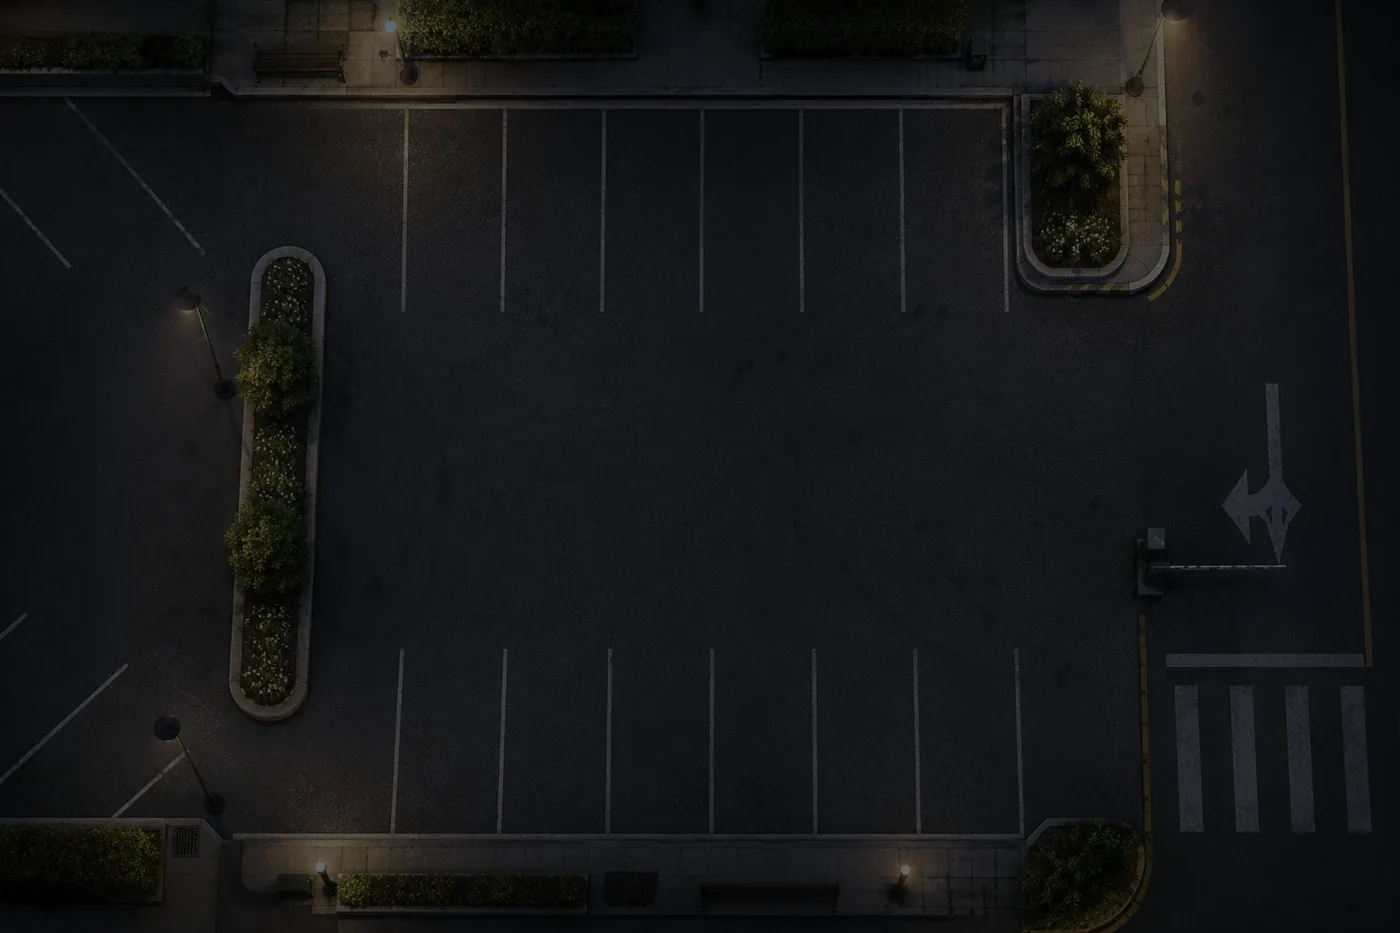
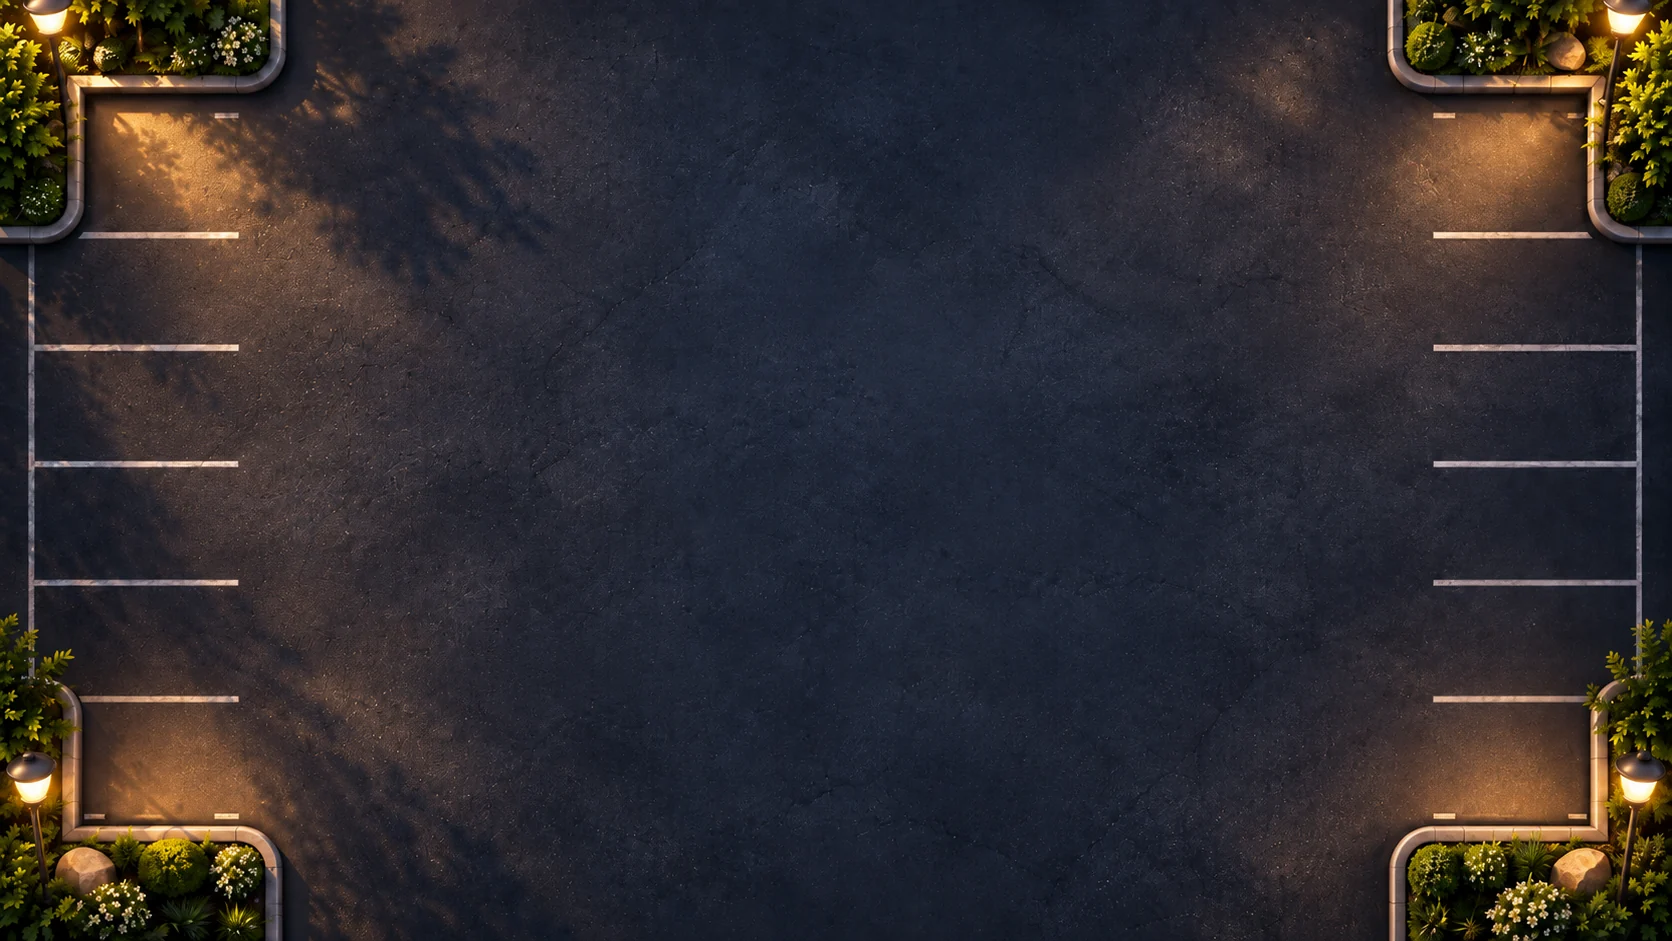
v3.26.1: o cenario do Estacionamento volta a aparecer -- regressao de 27/ago
Ela, vendo a tela publicada: "nao entrou", com a captura mostrando o tabuleiro
sobre o navy do app, sem cenario nenhum.

CAUSA, provada por parser CSS (cssstyle), nao por leitura:
  "#23262e linear-gradient(...), url(...) center / cover"  -> RECUSADA
  "linear-gradient(...), url(...) center / cover #23262e"  -> ACEITA
No atalho background a cor so e aceita na ULTIMA camada. Na primeira, o navegador
descarta a declaracao INTEIRA -- nao vinha a foto, nem o veu, nem sequer o cinza.
Por isso a captura dela nao tinha cinza nenhum.

DESDE QUANDO: em 25/jun (v1.85.23) o desenho usava backgroundImage, que nao
aceita cor e por isso nao tinha como errar. No lote F (v2.94.0, 27/ago, a
migracao ao palco) virou o atalho com a cor na primeira camada. O cenario esta
apagado ha duas semanas e meia e ninguem viu porque ninguem abriu a tela com os
olhos desde a migracao. A v3.26.0 de ontem HERDOU o defeito: mantive a estrutura
errada ao trocar a foto pelo par dia/noite.

Falha minha, separada: ela salvou as artes dela as 23h15 como "fundo dia.png" e
"fundo noite.png" (1672x941). Meu git add -A do commit da spec as levou junto sem
eu olhar, e as 23h34 gerei provisorios por cima. Agora as artes DELA estao em
fundo-dia.webp (348 KB) e fundo-noite.webp (220 KB); os PNGs ficam como fonte.

Veu reduzido (dia 0,12-0,20; noite 0,05-0,10, contra 0,28-0,40): o veu antigo foi
calibrado contra uma foto que nunca apareceu, e sobre a arte dela apagaria o
[…]

diff --git a/lib/parking-layout.test.ts b/lib/parking-layout.test.ts
@@ -5,6 +5,9 @@ import { PARKING_LEVELS } from "./parking-levels";
 import {
   BORDER, CELL_IDEAL, CELL_MIN, CORRIDOR, DAY_START_HOUR, medidasDoTabuleiro,
   NIGHT_START_HOUR, periodoDoDia, tamanhoDaCelula,
+  fundoDoPalco,
+  COR_DE_BASE,
+  FUNDO_POR_PERIODO,
 } from "./parking-layout";
 
 const COMPONENT_PATH = resolve(process.cwd(), "components/exercises/executive/EstacionamentoLogico.tsx");
@@ -82,12 +85,36 @@ describe("layout do Estacionamento Lógico", () => {
     expect(Math.max(...fases.map((level) => level.cars.length))).toBe(10);
   });
 
+  it("o fundo do palco é um atalho CSS VÁLIDO: a cor vai na última camada", () => {
+    // Regressão real, de 27/ago a 13/set: o valor era `#23262e linear-gradient(...), url(...)`, com a
+    // cor na PRIMEIRA camada. No atalho `background` a cor só é aceita na última, e uma declaração
+    // inválida é descartada INTEIRA — não vinha nem a foto, nem o véu, nem o cinza. Ninguém viu
+    // porque ninguém abriu a tela. Este teste é o que faz isso não voltar calado.
+    for (const periodo of ["dia", "noite"] as const) {
+      const valor = fundoDoPalco(periodo);
+      const camadas = valor.split(/,(?![^()]*\))/).map((camada) => camada.trim());
+
+      expect(camadas.length).toBeGreaterThan(1);
+      expect(valor).toContain(FUNDO_POR_PERIODO[periodo]);
+      expect(valor).toContain("center / cover");
+      expect(valor).toContain("no-repeat");
+
+      for (const camada of camadas.slice(0, -1)) {
+        expect(camada, "cor fora da ultima camada em " + periodo).not.toContain(COR_DE_BASE);
+      }
+      expect(camadas[camadas.length - 1]).toContain(COR_DE_BASE);
+    }
+  });
+
   it("preserva os contratos de UI e a lógica fixa", () => {
     const source = readFileSync(COMPONENT_PATH, "utf8");
     const logica = source.slice(source.indexOf("function buildGrid"), source.indexOf("// ── Top-view vehicle"));
     const tutorialConcluido = source.slice(source.indexOf("// ── Tutorial concluído"), source.indexOf("// ── Result screen"));
 
     expect(source).not.toMatch(/transform:\s*["'`][^"'`]*scale\s*\(/);
+    // A montagem do fundo vive no módulo puro, onde é provada; o componente só consome.
+    expect(source).not.toMatch(/#23262e\s+linear-gradient/);
+    expect(source).toContain("fundoDoPalco(periodo)");
     expect(tutorialConcluido).toContain("mx-auto");
     expect(tutorialConcluido).not.toContain("max-w-xs");
     expect(tutorialConcluido).not.toContain("#ECEAE4");

diff --git a/lib/parking-layout.ts b/lib/parking-layout.ts
@@ -50,7 +50,38 @@ export const FUNDO_POR_PERIODO: Record<PeriodoDoDia, string> = {
   noite: "/exercises/Carros/fundo-noite.webp",
 };
 
+/**
+ * Véu escuro sobre o cenário, para o tabuleiro se destacar do fundo.
+ *
+ * Leve de propósito: a arte dela já vem tratada — a de dia é clara e quente, a de noite já é escura
+ * e tem os postes acesos. O véu antigo (0,28→0,40) foi calibrado contra uma FOTO que na prática nunca
+ * apareceu na tela (ver `fundoDoPalco`), e sobre a arte dela apagaria o dourado do fim de tarde.
+ * É uma linha para ajustar quando ela vir com os olhos.
+ */
 export const VEU_POR_PERIODO: Record<PeriodoDoDia, [string, string]> = {
-  dia: ["rgba(8,10,16,0.28)", "rgba(8,10,16,0.40)"],
-  noite: ["rgba(8,10,16,0.10)", "rgba(8,10,16,0.18)"],
+  dia: ["rgba(8,10,16,0.12)", "rgba(8,10,16,0.20)"],
+  noite: ["rgba(8,10,16,0.05)", "rgba(8,10,16,0.10)"],
 };
+
+/** Cor sob o cenário, enquanto a imagem não carrega. */
+export const COR_DE_BASE = "#23262e";
+
+/**
+ * A string do atalho `background` do palco — e a razão de existir uma função para isto.
+ *
+ * ⚠ REGRESSÃO REAL, corrigida em 13/set/2026: de 27/ago (v2.94.0, a migração ao palco) até aqui, o
+ * cenário do Estacionamento **não apareceu na tela**. O valor era
+ * `#23262e linear-gradient(…), url(…) center / cover`, com a **cor na PRIMEIRA camada** — e no atalho
+ * `background` a cor só é aceita na ÚLTIMA. Declaração inválida é descartada INTEIRA pelo navegador,
+ * então não vinha nem a foto, nem o véu, nem sequer o cinza: aparecia o fundo do app por baixo.
+ * Ninguém viu porque ninguém abriu a tela com os olhos desde a migração. Em 25/jun o mesmo desenho
+ * funcionava porque usava `backgroundImage`, que não aceita cor e por isso não tinha como errar.
+ *
+ * A ordem aqui — imagens primeiro, cor por último — é o que torna a declaração válida, e
+ * `parking-layout.test.ts` prova isso pela estrutura, para a regressão não voltar em silêncio.
+ */
+export function fundoDoPalco(periodo: PeriodoDoDia): string {
+  const [inicio, fim] = VEU_POR_PERIODO[periodo];
+  return `linear-gradient(${inicio}, ${fim}), `
+    + `url(${FUNDO_POR_PERIODO[periodo]}) center / cover no-repeat ${COR_DE_BASE}`;
+}

diff --git a/components/exercises/executive/EstacionamentoLogico.tsx b/components/exercises/executive/EstacionamentoLogico.tsx
@@ -8,8 +8,8 @@ import { ExerciseStage } from "@/components/exercises/ExerciseStage";
 import { assignCarImages, ALL_CAR_IMAGES } from "@/lib/parking-cars";
 import { PARKING_LEVELS, PLAY_LEVELS } from "@/lib/parking-levels";
 import {
-  BORDER, CORRIDOR, FUNDO_POR_PERIODO, medidasDoTabuleiro, periodoDoDia,
-  RESPIRO_VERTICAL, tamanhoDaCelula, VEU_POR_PERIODO,
+  BORDER, CORRIDOR, fundoDoPalco, medidasDoTabuleiro, periodoDoDia,
+  RESPIRO_VERTICAL, tamanhoDaCelula,
 } from "@/lib/parking-layout";
 import type { Level } from "@/types/parking";
 import type { ExerciseResult, Theme } from "@/types";
@@ -430,8 +430,7 @@ export function EstacionamentoLogico({ difficulty, theme, onComplete }: Props) {
   }, [gridDaFase, hint, tutorial, currentLevel]);
 
   const { interno: boardInner, total: boardTotal } = medidasDoTabuleiro(gridDaFase, cellPx);
-  const [veuInicio, veuFim] = VEU_POR_PERIODO[periodo];
-  const gameBackground = `#23262e linear-gradient(${veuInicio}, ${veuFim}), url(${FUNDO_POR_PERIODO[periodo]}) center / cover no-repeat`;
+  const gameBackground = fundoDoPalco(periodo);
 
   useEffect(() => { if (!startedRef.current) { startedRef.current = true; begin(); } }, [begin]);
 

diff --git a/PROGRESSO.md b/PROGRESSO.md
@@ -3,6 +3,55 @@
 > Checkpoint de contexto para continuidade entre sessões. Atualizado automaticamente.
 > 👉 Visão geral e handoff para o próximo Claude: **`ESTADO-DO-PROJETO.md`** (leia primeiro).
 
+## 🔴 REGRESSÃO DE 27/AGO ENCONTRADA E CORRIGIDA — o cenário do Estacionamento nunca aparecia (13/set/2026)
+
+**Ela, vendo a tela publicada:** *"não entrou"* — com a captura mostrando o tabuleiro sobre o **navy
+do app**, sem cenário nenhum. Corrigido em **v3.26.1**.
+
+**A causa, provada por parser CSS (`cssstyle`), não por leitura:**
+
+```
+"#23262e linear-gradient(...), url(...) center / cover"   -> declaracao RECUSADA (vazia)
+"linear-gradient(...), url(...) center / cover #23262e"   -> ACEITA
+```
+
+No atalho `background`, a **cor só é aceita na ÚLTIMA camada**. Estando na primeira, o navegador
+**descarta a declaração inteira** — não vinha a foto, nem o véu, nem sequer o cinza `#23262e`, e o que
+aparecia era o fundo do app por baixo. Foi por isso que a captura dela não tinha cinza nenhum.
+
+**Desde quando:** em **25/jun (v1.85.23)** o desenho usava `backgroundImage`, que **não aceita cor** e
+por isso não tinha como errar — funcionava. No **lote F (v2.94.0, 27/ago, a migração ao palco)** virou
+o atalho `background` com a cor na primeira camada. **O cenário está apagado há duas semanas e meia**,
+e ninguém viu porque **ninguém abriu a tela com os olhos** desde a migração — exatamente o risco que o
+bloco *"O que NINGUÉM verificou com os olhos"* de 10/set registrava. A entrega de ontem (v3.26.0)
+**herdou** o defeito: eu mantive a estrutura errada ao trocar a foto pelo par dia/noite.
+
+**⚠ Falha minha, separada:** ela salvou as artes dela às **23h15 e 23h16** como `fundo dia.png` e
+`fundo noite.png` (1672×941, com ESPAÇO no nome). Meu `git add -A` do commit da spec (`429a1dc1`) as
+levou junto **sem eu olhar**, e às 23h34 eu gerei provisórios por cima — o código ficou apontando para
+os **meus** arquivos, não para os dela. Agora as artes dela estão convertidas para
+`fundo-dia.webp` (348 KB) e `fundo-noite.webp` (220 KB); os PNGs originais ficam como fonte.
+
+- [x] **`fundoDoPalco(periodo)`** em `lib/parking-layout.ts`: monta a string com as imagens primeiro e
+      a cor por último. O componente só consome. ✅
+- [x] **Véu reduzido** — dia 0,12→0,20 e noite 0,05→0,10, contra 0,28→0,40 de antes. O véu antigo foi
+      calibrado contra uma foto que **nunca apareceu na tela**, e sobre a arte dela apagaria o dourado
+      do fim de tarde. A arte de noite já vem escura, com os postes acesos. **É uma linha para ajustar
+      quando ela vir.** ✅
+- [x] **Teste que impede a volta silenciosa:** quebra a string em camadas e exige que a cor **não**
+      apareça em nenhuma que não seja a última; mais prova de ausência no componente. **Provado por
+      injeção:** devolvida a cor à primeira camada, o teste quebra. ✅
+- [x] **Provas:** `tsc` exit 0 · **87 arquivos / 1109 testes** exit 0 · lint 0 errors · e as duas
+      strings reais validadas no **parser CSS** de verdade. ✅
+- [ ] **PENDENTE — ela ver.** Depois das 18h a tela abre no cenário de NOITE.
+
+### A lição, que vale além deste exercício
+
+Uma declaração CSS inválida **falha em silêncio**: nada no `tsc`, nada no lint, nada nos testes, nada
+no console. A suíte inteira passava com o cenário apagado. **Só o olho pega** — e é por isso que a
+verificação visual dela não é formalidade. O teste novo existe para converter este caso específico em
+algo que a máquina pega, mas a classe do problema continua só visível com os olhos.
+
 ## 📤 PUBLICADO — 12/set/2026, v3.26.0 no ar
 
 `git push origin main` autorizado por ela (*"sobe tudo para eu testar"*). Deploy

diff --git a/PEDIDOS-LOG.md b/PEDIDOS-LOG.md
@@ -23349,3 +23349,6 @@ Estamos alterando exclusivamente UI, tamanho adaptativo da área jogável, centr
 
 ## 12/09/2026 23:54
 sobre tudo para eu testar
+
+## 13/09/2026 00:06
+[Image #2] nao entrou
